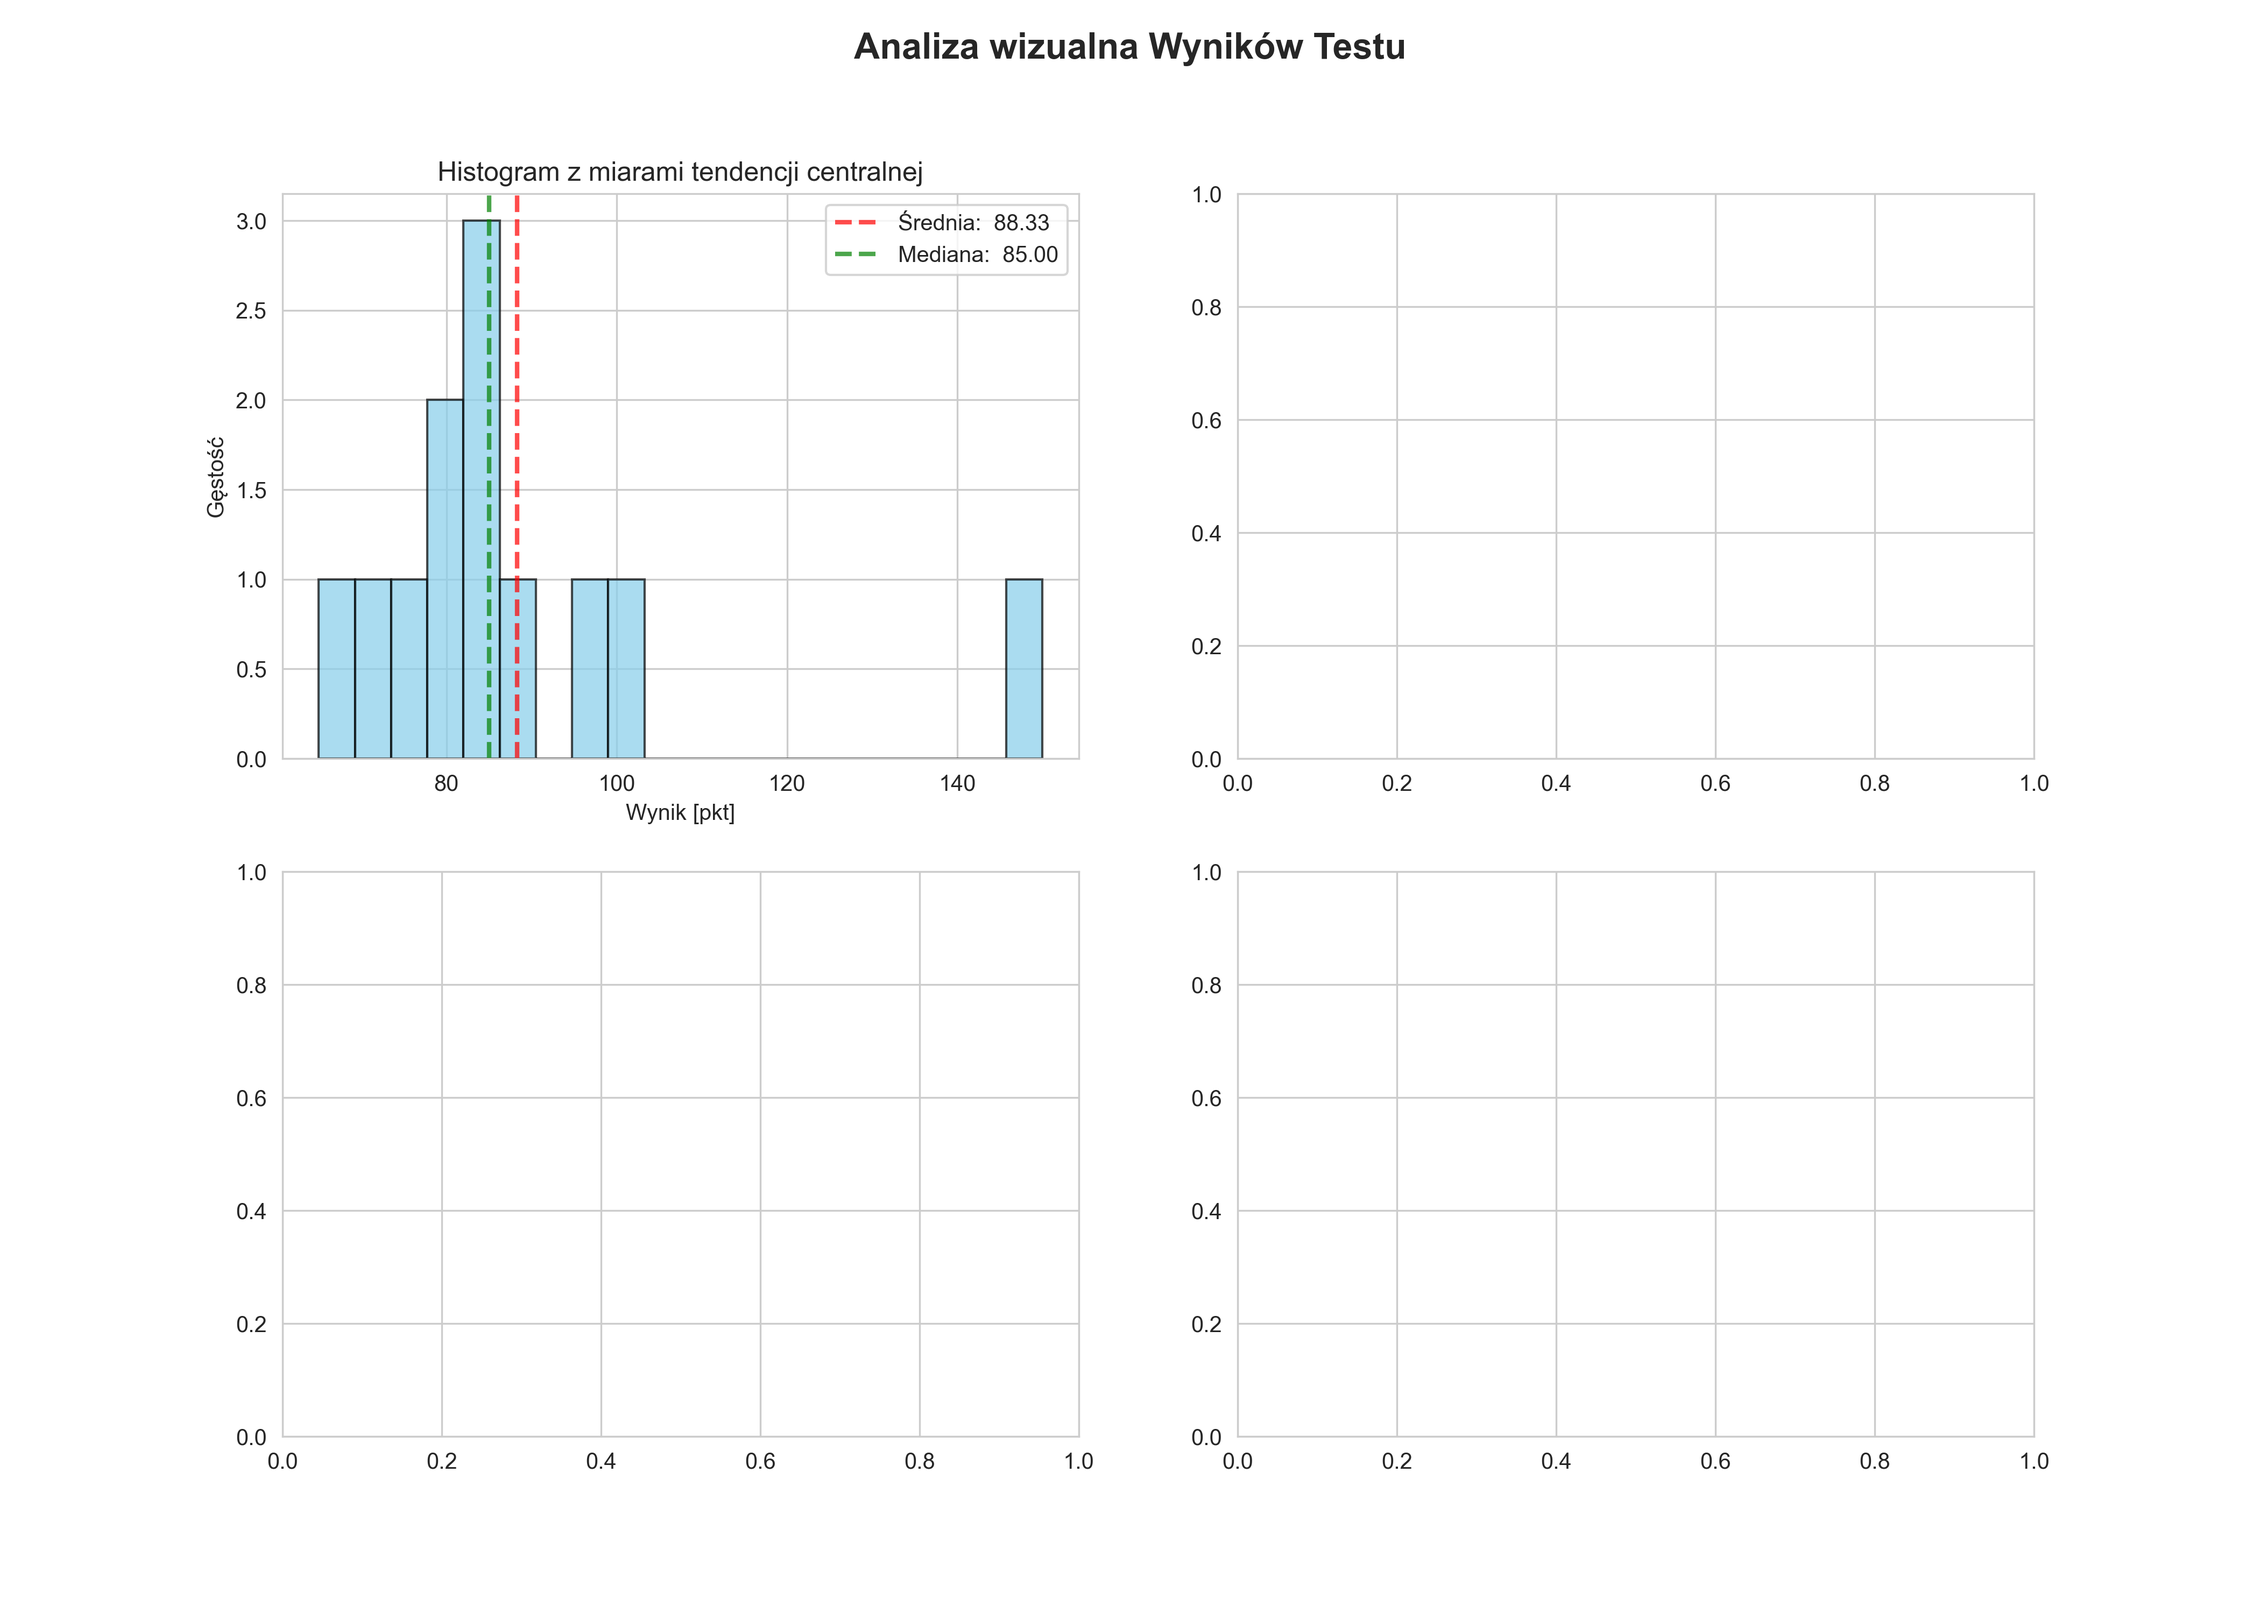
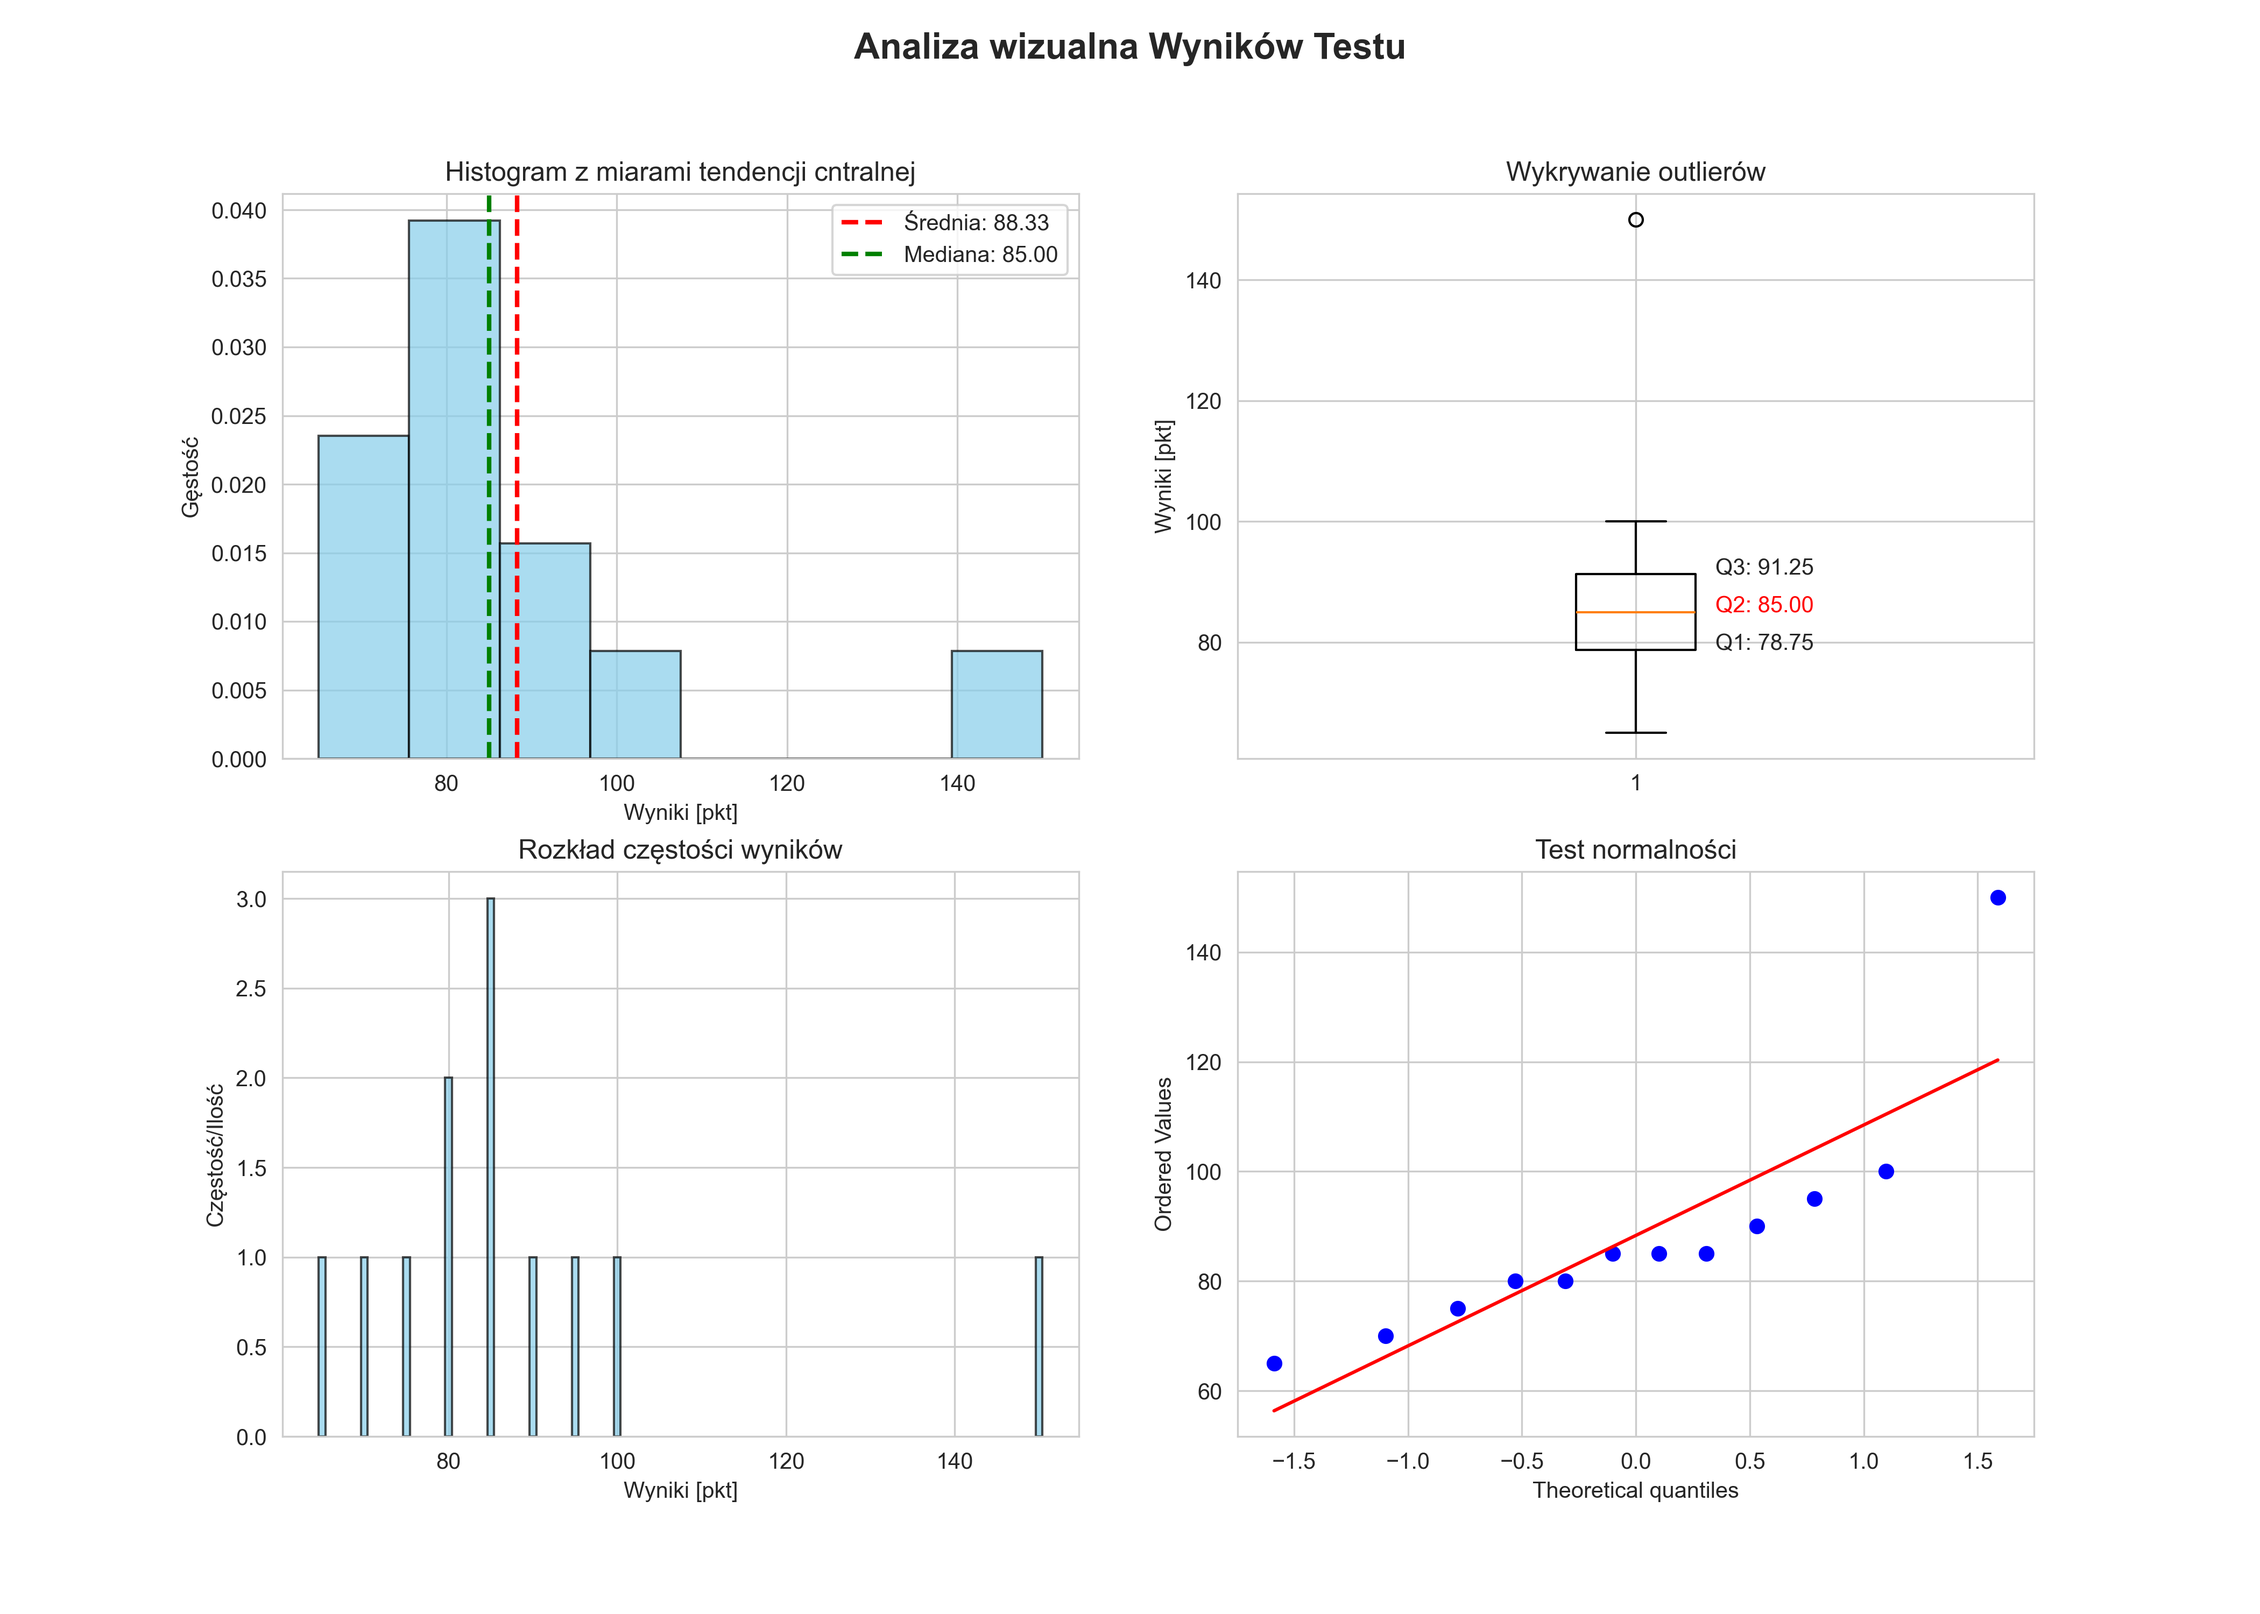
added the rest of graphs

diff --git a/Podstawy_Statystyki/1. Podstawy.py b/Podstawy_Statystyki/1. Podstawy.py
@@ -30,12 +30,12 @@ def separator (text):
 # print(f"Wariancja:            {np.var(wyniki, ddof = 1): .2f} pkt^2")
 # print(f"Odchylenie std:       {np.var(wyniki, ddof = 1): .2f} pkt")
 #
-# # Kwartyle
-# print("\n2. KWARTYLE")
-# q1 = np.percentile(wyniki, 25)
-# q2 = np.percentile(wyniki, 50)
-# q3 = np.percentile(wyniki, 75)
-# iqr = q3 - q1
+# Kwartyle
+print("\n2. KWARTYLE")
+q1 = np.percentile(wyniki, 25)
+q2 = np.percentile(wyniki, 50)
+q3 = np.percentile(wyniki, 75)
+iqr = q3 - q1
 #
 # print("=" * 40)
 # print(f"Q1 (25%):              {q1: .2f} pkt")
@@ -95,16 +95,35 @@ sns.set_style("whitegrid")
 fig, axes = plt.subplots(2, 2, figsize = (14, 10))
 fig.suptitle("Analiza wizualna Wyników Testu", fontsize = 16, fontweight = "bold")
 
-axes[0, 0].hist(wyniki, bins = 20, color = "skyblue", alpha = 0.7, edgecolor = "black", density = False)
-axes[0, 0].axvline(np.mean(wyniki), color = "red", linestyle = "--", alpha = 0.7, linewidth = 2,
-                   label = f"Średnia: {np.mean(wyniki): .2f}")
-axes[0, 0].axvline(np.median(wyniki), color = "green", linestyle = "--", alpha = 0.7, linewidth = 2,
-                   label = f"Mediana: {np.median(wyniki): .2f}")
-
-axes[0, 0].legend()
-axes[0, 0].set_xlabel("Wynik [pkt]")
+# Histogram z krzywą gęstości
+axes[0, 0].hist(wyniki, bins = 8, color = "skyblue", alpha = 0.7, edgecolor = "black", density = True)
+axes[0, 0].axvline(np.mean(wyniki), color = "red", linestyle = "--", linewidth = 2,
+                   label = f"Średnia: {np.mean(wyniki):.2f}")
+axes[0, 0].axvline(np.median(wyniki), color = "green", linestyle = "--", linewidth = 2,
+                   label = f"Mediana: {np.median(wyniki):.2f}")
+axes[0, 0].set_xlabel("Wyniki [pkt]")
 axes[0, 0].set_ylabel("Gęstość")
-axes[0, 0].set_title("Histogram z miarami tendencji centralnej")
+axes[0, 0].set_title("Histogram z miarami tendencji cntralnej")
+axes[0, 0].legend()
 
+# Wykres słupkowy
+unique, counts = np.unique(wyniki, return_counts = True)
+axes[1, 0].bar(unique, counts, color = "skyblue", alpha = 0.7, edgecolor = "black")
+axes[1, 0].set_xlabel("Wyniki [pkt]")
+axes[1, 0].set_ylabel("Częstość/Ilość")
+axes[1, 0].set_title("Rozkład częstości wyników")
+
+# Wykrywanie outlierów - wykres pudełkowy
+axes[0, 1].boxplot(wyniki)
+axes[0, 1].set_ylabel("Wyniki [pkt]")
+axes[0, 1].set_title("Wykrywanie outlierów")
+
+# Test normalności
+axes[0, 1].text(1.1, q1, f"Q1: {q1:.2f}")
+axes[0, 1].text(1.1, q2, f"Q2: {q2:.2f}", color = "red")
+axes[0, 1].text(1.1, q3, f"Q3: {q3:.2f}")
+
+stats.probplot(wyniki, dist = "norm", plot = axes[1, 1])
+axes[1, 1].set_title("Test normalności")
 plt.savefig("statystyka_opisowa_wizualizacja.png", dpi = 300)
 plt.show()
